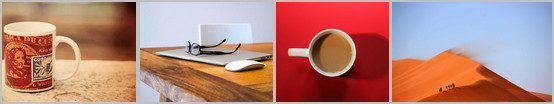
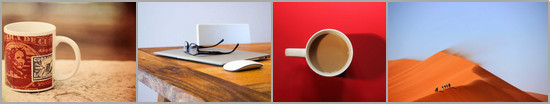
refactor(demo): homogenize image styles in main page

diff --git a/projects/mat-image-overlay-demo/src/app/app.component.html b/projects/mat-image-overlay-demo/src/app/app.component.html
@@ -9,9 +9,9 @@
     <div class="image-preview-container first-container">
       <h3 class="container-title">Demo 1 - string array as image source</h3>
       <div class="image-selection">
-        <div *ngFor="let imageUrl of stringImages; let imageIndex = index">
-          <img class="image-link" height="100" [src]="imageUrl" (click)="openOverlayDemo1Image(imageIndex)">
-        </div>
+        <ng-template ngFor let-imageUrl [ngForOf]="stringImages" let-imageIndex="index">
+          <img class="image-link image-preview" height="100" [src]="imageUrl" (click)="openOverlayDemo1Image(imageIndex)">
+        </ng-template>
       </div>
       <p class="actions" data-cy="demo-1-action">
         <span>Click on one of the images above to open overlay or here to </span>
@@ -21,12 +21,12 @@
     <div class="image-preview-container next-container">
       <h3 class="container-title">Demo 2 - object array as image source</h3>
       <div class="image-selection">
-        <div *ngFor="let imageData of objectImages; let imageIndex = index; trackBy: trackByImageId">
-          <img class="images-compact" [src]="urlForObjectImagesPreview(imageIndex)"
+        <ng-template ngFor let-imageData [ngForOf]="objectImages" let-imageIndex="index" [ngForTrackBy]="trackByImageId">
+          <img class="image-link image-preview" [src]="urlForObjectImagesPreview(imageIndex)"
                [height]="thumbnailHeight" [width]="thumbnailWidth(imageIndex)"
                [alt]="imageDescription(imageIndex)" [title]="imageDescription(imageIndex)"
                (click)="openOverlayDemo2Image(imageIndex)">
-        </div>
+        </ng-template>
       </div>
       <p class="actions" data-cy="demo-2-action">
         <span>Click on one of the images above to open overlay or here to </span>
@@ -40,7 +40,7 @@
           <img class="image-link" height="100" src="assets/minimalConfigDemo.jpg">
         </a>
       </div>
-      <p class="actions" data-cy="start-show">
+      <p class="actions" data-cy="demo-3-action">
         <a href="#" (click)="openMinimalConfigImageOverlay()" data-cy="open-demo-3">Open first image in overlay</a>
       </p>
     </div>

diff --git a/projects/mat-image-overlay-demo/src/app/app.component.scss b/projects/mat-image-overlay-demo/src/app/app.component.scss
@@ -62,12 +62,17 @@
 }
 
 img {
-  border: 2px solid silver;
-  margin: 5px;
+  margin: 5px 0;
 }
 
-.images-compact {
-  margin: 5px 0;
+.image-preview {
+  border-bottom: 2px solid darkgray;
+  border-right: 2px solid darkgray;
+  border-top: 2px solid darkgray;
+}
+
+.image-preview:first-child {
+  border-left: 2px solid darkgray;
 }
 
 .image-link {
